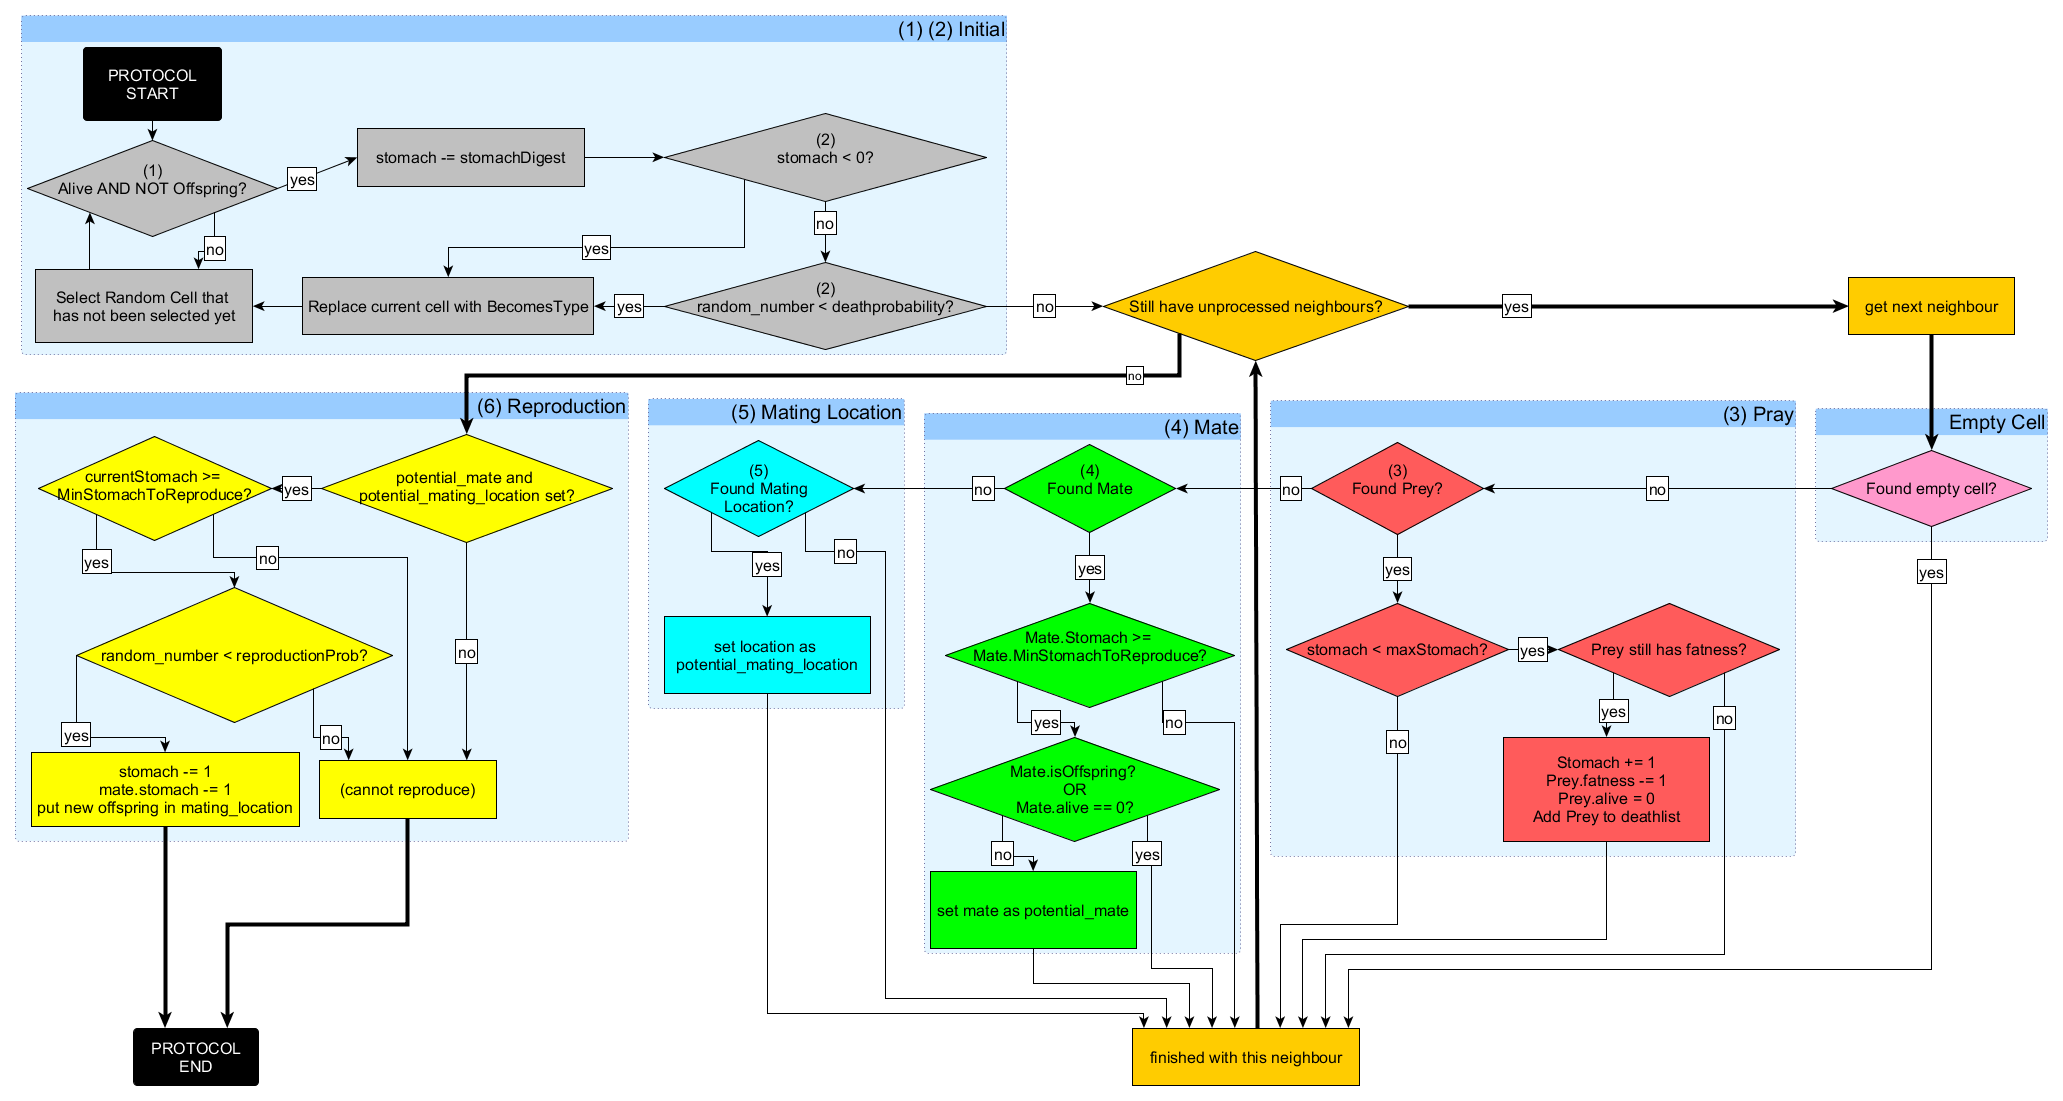
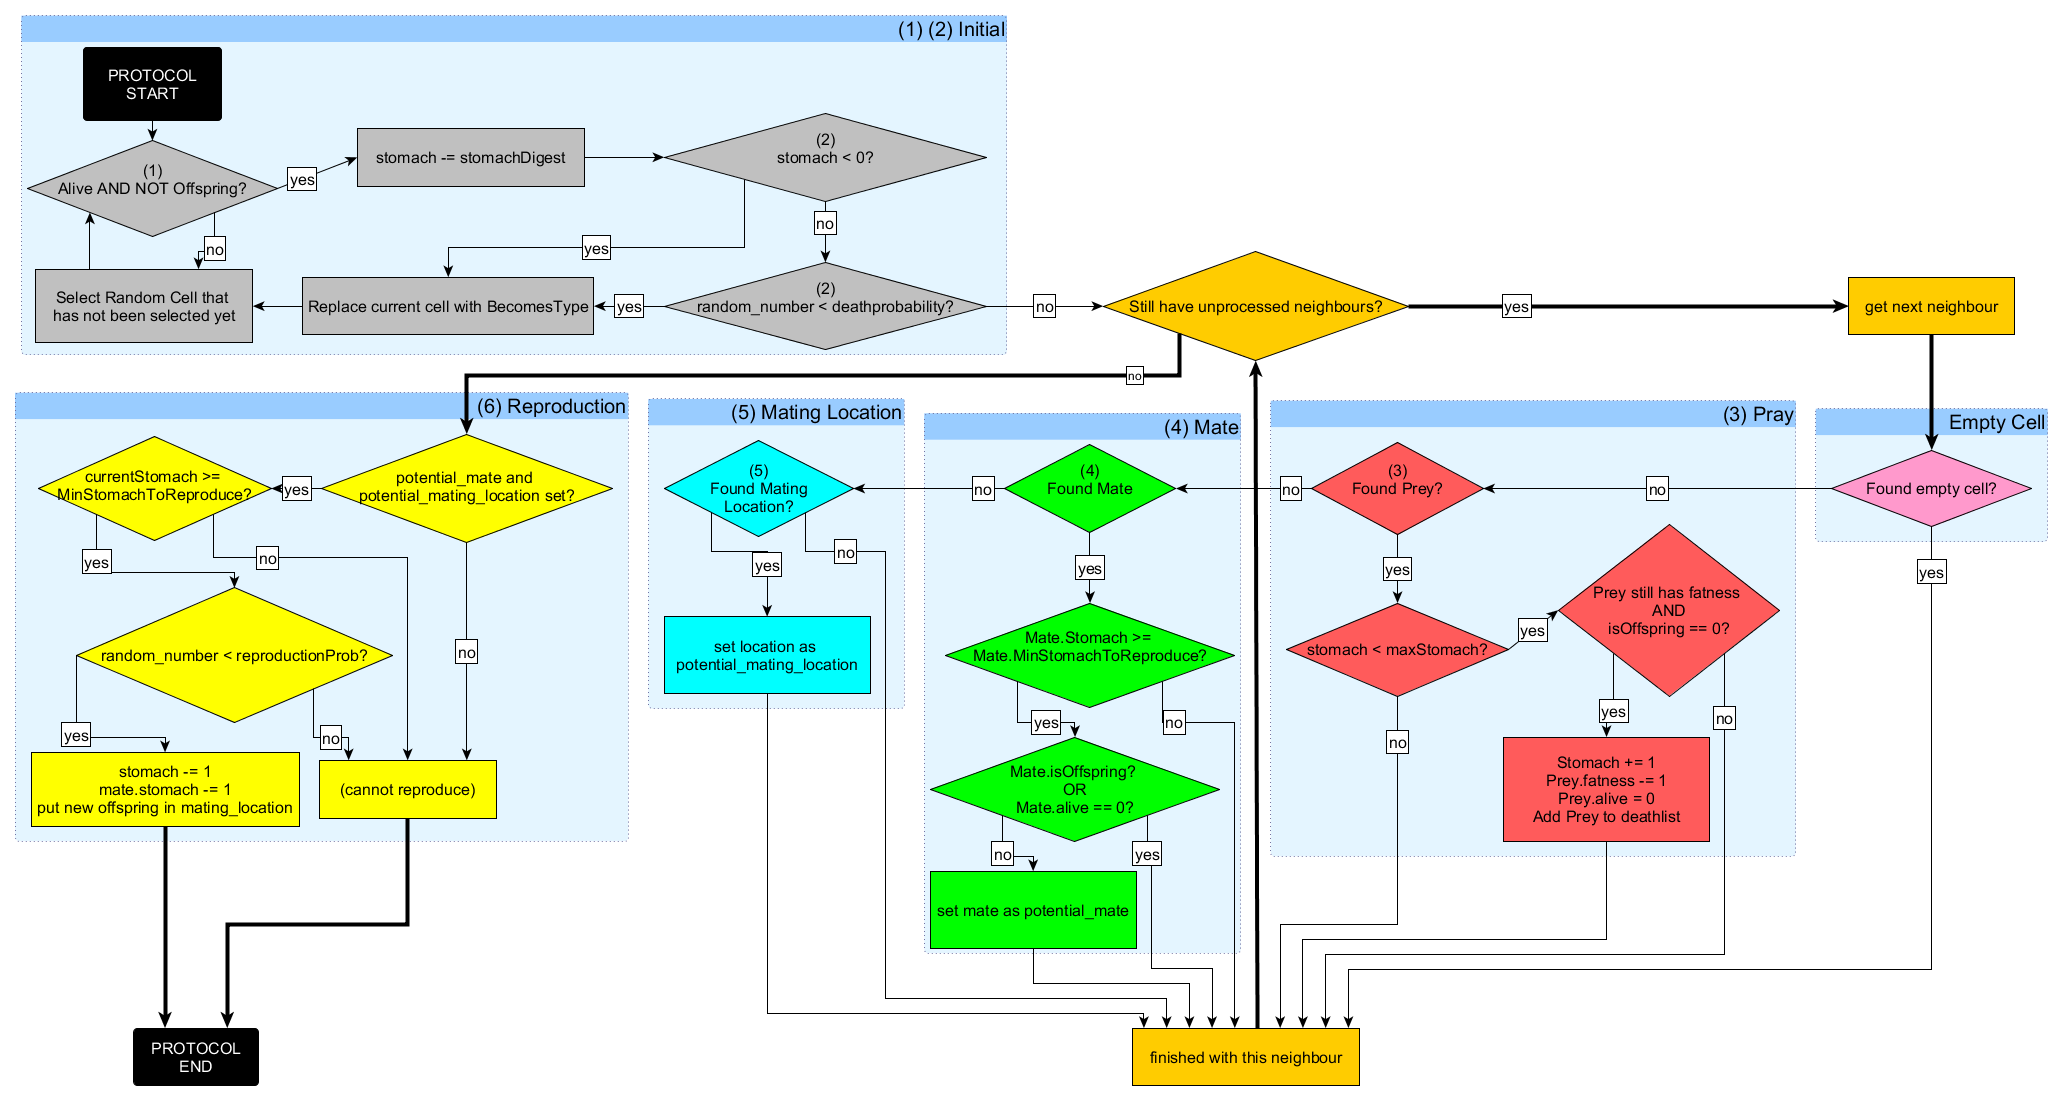
Minor changes
Added isOffspring check in prey step

Changed region(s): [[0.7135, 0.4632, 0.8686, 0.6485]]

diff --git a/doc/latex/reportTemplate.tex b/doc/latex/reportTemplate.tex
@@ -88,7 +88,7 @@
 
 
 \section{Abstract}
-In the film "Lion King" from Disney the main character's father explains to his son the concept of what he calls "the circle of life" and how all animals in the food chain hierarchy are needed in order for every species to survive. He abstracts the concept by explaining that lions become grass after they die. This grass is eaten by the antelopes, which are again eaten by the lions to complete the circle. We wanted to see if this concept is sound and said three organisms are able to survive within cellular automaton simulation.
+In the film "The Lion King" from Disney the main character's father explains to his son the concept of what he calls "the circle of life" and how all animals in the food chain hierarchy are needed in order for every species to survive. He abstracts the concept by explaining that lions become grass after they die. This grass is eaten by the antelopes, which are again eaten by the lions to complete the circle. We wanted to see if this concept is sound and said three organisms are able to survive within a cellular automaton simulation.
 
 \section{Individual contributions}
 Patrick was responsible for the model, the parameters and the implementation in Matlab thereof. Ruben polished single aspects of the simulation and was responsible for the performance of the algorithm. Furthermore Ruben was responsible for the inclusion of the Lotka Volterra equation and finding papers thereof.
@@ -116,7 +116,7 @@ Starting with Conway's Game of Life \cite{gameOfLife} a cell should not only hav
 \end{description}
 
 \subsection{Attributes}
-Furthermore each of the four cell types must have parameterizable attributes in order for the extended rules to work. 
+Each of the four cell types must have parameterizable attributes in order for the extended rules to work. 
 Table \ref{tab:Properties} lists all attributes and describes their meaning.
 
 \begin{table}[htbp]
@@ -134,16 +134,16 @@ Name [Value Range]& Description\\
 \arabic{attCounter}. PreyType \{1,2,3,4\} & Type of the organism which the current organism eats \\ 
 \hline 
 \addtocounter{attCounter}{1}
-\arabic{attCounter}. Becomes \{1,2,3,4\}& Type to become after a natural death (Dying of age or hunger) \\ 
+\arabic{attCounter}. Becomes \{1,2,3,4\}& Type to become after a natural death (dying of age or hunger) \\ 
 \hline 
 \addtocounter{attCounter}{1}
 \arabic{attCounter}. FoodDigest [0,inf]& Amount of food that is digested in one time-step\\ 
 \hline 
 \addtocounter{attCounter}{1}
-\arabic{attCounter}. Stomach [0,inf]& Amount of food currently in organism. This decreases with each time-step (by the number defined in FoodDigest) and increases when the organism found food\\ 
+\arabic{attCounter}. Stomach [0,inf]& Amount of food currently in organism. This decreases with each time-step (by the number defined in FoodDigest) and increases by 1 when the organism found food\\ 
 \hline 
 \addtocounter{attCounter}{1}
-\arabic{attCounter}. MaxStomach [0,inf]& Maximal amount of food an organism will eat. Organism will only eat if its stomach is below this number. A high number will cause the organism to eat anything it finds causing overfeeding while a low number will cause the organism to live on a diet \\ 
+\arabic{attCounter}. MaxStomach [0,inf]& Maximal amount of food an organism will eat. Organism will only eat if its stomach is below this number. A high number will cause the organism to eat anything it finds causing overfeeding while a low number will cause the organism to live on a strict diet \\ 
 \hline 
 \addtocounter{attCounter}{1}
 \arabic{attCounter}. DeathProb [0,1]& The probability of dying by age at the end of a time-step. Other death causes are discussed in section \ref{tab:deathCauses} \\ 
@@ -168,7 +168,7 @@ Name [Value Range]& Description\\
 \end{table}
 
 \subsection{Protocol per Timestep}
-Once we have generated an initial map with random cells we start the time process. This means for an unlimited amount of time steps every cell gets called in random order and completes the protocol. This protocol is very similar to the rules in Conway's Game of Life but has various extensions in order to simulate the behavior of nature. The following is a detailed description of what each cell processes in one time-step. Figure \ref{fig:protocol} visualizes this process further.
+Once we have generated an initial map with random cells we start the time process. This means for an unlimited amount of time steps every cell gets called in random order and completes the time-step protocol. This protocol is very similar to the rules in Conway's Game of Life but has various extensions in order to simulate the desired behavior of nature. The following is a detailed description of what each cell processes in one time-step. Figure \ref{fig:protocol} visualizes this process further.
 
 \thispagestyle{empty}
 \begin{figure}[p]
@@ -184,7 +184,7 @@ Once we have generated an initial map with random cells we start the time proces
 \setcounter{protocolCounter}{1}
 \subsubsection{(\arabic{protocolCounter}) Initial check} 
 Here we check whether the {\it Alive} attribute is still set to 1. If it is set to 0 it means at least one predator cell has taken a bite of the current organism in this time-step.  This corresponds to a predator killing its prey in nature. If the the current cell is declared as dead it cannot (naturally) do anything anymore. We thus skip the protocol from here on and initiate the protocol on a next cell. We do not remove the organism yet, since more predators may be within the neighborhood and feed on this organism.
-\\We furthermore check whether the current cell is an offspring ({\it IsOffspring} $== 1$). This would mean 2 other cells of the same type have generated this cell in this time-step. A newly born cell is also unable to do anything and we therefore would skip the rest of the protocol from here on. In nature, a newly born animal is able to neither reproduce nor hunt on directly. We are aware that there are animals who are able to hunt directly "out of the shell" (such as crocodiles), but we are dealing with antelopes and lions in our simulation which do not posses such skills. In addition, this attribute prevents a chain reaction of organisms generating many generations of children in one step. For example: Two lions produce an offspring in an empty field next to them. The offspring could then be able to reproduce with one of its parents in a cell next to it. Hyperpolating this will result in a chain of newborn lions in only one time-step.
+\\We furthermore check whether the current cell is an offspring ({\it IsOffspring} $== 1$). This would mean 2 other cells of the same type have generated this cell in this time-step. A newly born cell is also unable to do anything and we therefore would skip the rest of the protocol from here on. In nature, a newly born animal is able to neither reproduce nor hunt directly. We are aware that there are animals who are able to hunt directly "out of the shell" (such as crocodiles), but we are dealing with antelopes and lions in our simulation which do not posses such skills. In addition, this attribute prevents a chain reaction of organisms generating many generations of children in one step. For example: Two lions produce an offspring in an empty field next to them. The offspring would then be able to reproduce with one of its parents in a cell next to it. Hyperpolating this will result in a chain of newborn lions in only one time-step.
 
 \addtocounter{protocolCounter}{1}
 \subsubsection{(\arabic{protocolCounter}) Livability Check} 
@@ -192,8 +192,9 @@ We now subtract what we have in the stomach by the number defined in the digesti
 If the organism has died we skip the rest of the protocol and move on to the next cell. If the organism is still alive we can move on to the next protocol step. From here on we consider the neighborhood around the cell and act accordingly. The neighborhood is further described in section \ref{sec:neighbourhood}.
 \addtocounter{protocolCounter}{1}
 \subsubsection{(\arabic{protocolCounter}) Found Prey}
-If we find an organism within the neighborhood who's type matches the type which was set in the current cell's PreyType attribute we have found food. We check whether out pray still has {\it fatness} left by checking its fatness attribute. An organism can only feed a fixed amount of predators. This amount is stored in the fatness attribute. The attribute is used to limit the number of predators who can eat this organism. Setting it to 1 means only one predator is able to feed himself before the prey becomes inedible. This corresponds to antelopes or grass only being able to fill the stomach of a certain amount of lions or antelopes respectively.\\
-If the organism we encountered still has fatness larger than 0 we make sure the {\it Alive} attribute is set to 0 to incapacitate it. If this was not the case before we furthermore add the organism to a "deathlist". This list is used to keep track of all eaten organisms and after each time-step all organisms on the deathlist are removed (i.e become Nothing). 
+If we find an organism within the neighborhood who's type matches the type which was set in the current cell's PreyType attribute we have found food. We check if the current organism is not already full (has eaten enough) by testing whether its stomach is lower than its MaxStomach attribute. We then check whether the pray still has {\it fatness} left by checking its fatness attribute. A prey can only feed a fixed amount of predators. This amount is stored in the fatness attribute. The attribute is used to limit the number of predators who can eat this organism. Setting it to 1 means only one predator is able to feed himself before the prey becomes inedible. This corresponds to antelopes or grass only being able to fill the stomach of a certain amount of lions or antelopes respectively.\\
+If the organism we encountered still has fatness larger than 0 we further check whether the prey is an offspring. Being an offspring in a time-step means the organism is busy being born. We thus assume full protection of its parents (who are in turn edible themselves) making them inaccessible for predators.\\
+If all the pre checks return positive we are able to eat the prey. We do this by adding 1 to the current organism's stomach and make sure the {\it Alive} attribute is set to 0 to incapacitate it. If this was not the case before we furthermore add the organism to a "deathlist". This list is used to keep track of all eaten organisms and after each time-step all organisms on the deathlist are removed (i.e become Nothing). 
 
 \addtocounter{protocolCounter}{1}
 \subsubsection{(\arabic{protocolCounter}) Found Mate}
@@ -207,7 +208,7 @@ If we find either a Grass or a Nothing cell in the surrounding neighborhood we m
 \addtocounter{protocolCounter}{1}
 \subsubsection{(\arabic{protocolCounter}) Reproduce}
 \label{tab:reproduction}
-Once we have processed all the cells in the neighborhood we now survey the outcome of the mating situation. If there we have a potential mate and a potential mating location we can continue with the final mating protocol. This is done by checking if the current organism's {\it Stomach} attribute is equal or higher than the amount of its {\it MinStomachRep} attribute. If this is also the case it means there is a potential mate who is enough fed, a cell within the neighborhood that can be replaced by an offspring, and the current organism is fed enough to reproduce. For a final test we generate a random number between 0 and 1. Reproduction is only possible if this random number is smaller than the {\it ReproductionProbability} attribute of the organism type. This simulates natures success rate of giving birth. Having a reproduction probability of 1 would result in 100 $\%$ success rate given the previous conditions are met. When the two organisms successfully reproduce the stomach of the offspring is set to the average of its parents plus 1. This reflects natures way of disabling two underfed parents to reproduce a well-fed child and therefore creating already eaten food. In addition the two parents both lose 1 stomach point in order to keep reproduction to a limit. This should simulate the increase of life difficulty of an organism once it has produced an offspring. Reproduction is natural, but it also hinders the parent's flexibility in life. Subtracting one stomach point enforces this concept, since the organism must now work harder (eat more) in order to stay alive.
+Once we have processed all the cells in the neighborhood we now survey the outcome of the mating situation. If we have a potential mate and a potential mating location we can continue with the final mating protocol. This is done by checking if the current organism's {\it Stomach} attribute is equal or higher than the amount of its {\it MinStomachRep} attribute. If this is also the case it means there is a potential mate who is enough fed, a cell within the neighborhood that can be replaced by an offspring, and the current organism is fed enough to reproduce. For a final test we generate a random number between 0 and 1. Reproduction is only possible if this random number is smaller than the {\it ReproductionProbability} attribute of the organism type. This simulates natures success rate of giving birth. Having a reproduction probability of 1 would result in 100 $\%$ success rate given the previous conditions are met. When the two organisms successfully reproduce the stomach of the offspring is set to the average of its parents plus 1. This reflects natures way of disabling two underfed parents to reproduce a well-fed child and therefore creating already eaten food. In addition the two parents both lose 1 stomach point in order to keep reproduction to a limit. This should simulate the increase of life difficulty of an organism once it has produced an offspring. Reproduction is natural, but it also hinders the parent's flexibility in life. Subtracting one stomach point enforces this concept, since the organism must now work harder (eat more) in order to stay alive.
 
 \subsection{Neighbourhood}
 \label{sec:neighbourhood}
@@ -215,6 +216,7 @@ As in game of life we inspect our neighborhood, see what kind of cells we find a
 We started off with the standard Moore-neighborhood and started testing the results of extending this neighborhood. This extension allows an organism to "see" further in the map and therefore not only eat more but reproduce with organism further away. Effects of this are discussed in section \ref{sec:DiscNeighbourhood}
 
 \subsection{Death Causes}
+\label{tab:deathCauses}
 In our model there are multiple ways a single organism can cease to exist. Depending on the cause the resulting cell differs too. Table \ref{tab:deathCauses} shows all possible death causes.
 \begin{table}[htbp]
 \centering
@@ -229,7 +231,6 @@ Hunger & When an organism's stomach reaches a negative number it dies of hunger 
 Eaten & An organism can be eaten by its predator (or multiple predators in one time-step). If this is the case the cell becomes Nothing after the time-step is completed. We chose not to let the cell become the type that is set in its {\it Becomes} attribute because after being eaten an organism mainly resides in the stomach of its predator and does not contribute to the outside land anymore\\  
 \end{tabular}
 \caption{All death causes considered in our model.}
-\label{tab:deathCauses}
 \end{table}
 
 \subsection{Known limits}
@@ -597,7 +598,7 @@ The graphical result of the Lotka-Volterra equations for these parameters is sho
 
 \section{Summary and Outlook}
 
-Adjusting the parameters in the Lotka-Volterra formulas to the values shown in Table \ref{tab:LotkaVolterraParametersFinal} results in  population curves similar to the ones obtained from our simulation. Therefore, we conclude that our simulation which models the habitat of organisms is close to the Lotka-Volterra equations for the situation that all three species are present. The main difference was that we have a location factor which the Lotka-Volterra does not take into account. All organisms are required in order to sustain on one land. Not only the presence but the limits such as not overfeeding are vital for everyone's survival. 
+Adjusting the parameters in the Lotka-Volterra formulas to the values shown in Table \ref{tab:LotkaVolterraParametersFinal} results in  population curves similar to the ones obtained from our simulation. Therefore, we conclude that our simulation which models the habitat of organisms is close to the Lotka-Volterra equations for the situation that all three species are present. The main difference was that we have a location factor which the Lotka-Volterra does not take into account. All organisms are required in order to sustain on one land. Furthermore we realized that the size of the given land matters. Every organism needs space to grow and pass away, which can be achieved by creating a large land or by setting a small neighborhood to make the predators weaker. If the land is too small or the neighborhood is too large the cycle can break because one organism is able to take over.  Not only the presence of each organism but the limits such as not overfeeding are vital for everyone's survival. Our organisms were forced to respect each other by the use of parameters. If we allowed one organism to disrespect others by for example always feeding when its prey is nearby the balance is broken.
 \appendix
 
 \section{Appendix}
